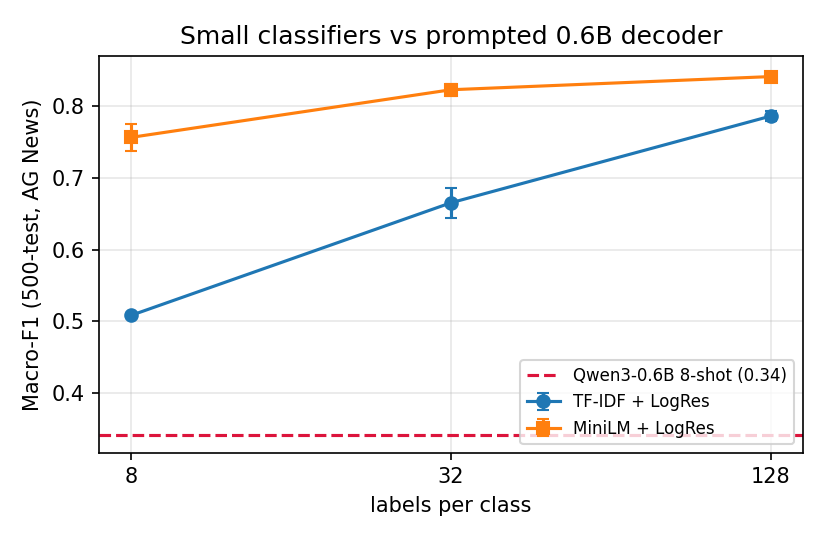
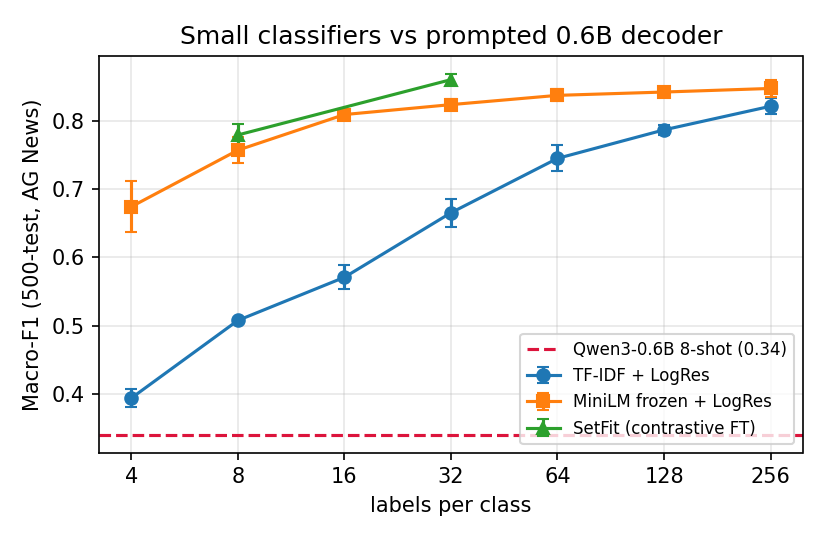
final: full k-grid 4-256, SetFit arm wins (0.860@k32, ECE .033, shift -.139), decoder CPU 87x slower

diff --git a/code/setfit_arm.py b/code/setfit_arm.py
@@ -1,0 +1,111 @@
+"""SetFit-style contrastive arm: few-shot fine-tuning of the frozen encoder
+itself (cosine-similarity loss on same-class/different-class pairs), then a
+logistic head. This is the "true few-shot fine-tuning" control that the
+frozen-encoder arm lacks. CPU-friendly (MiniLM, few hundred pairs, 1 epoch).
+"""
+
+import json
+import random
+import time
+from pathlib import Path
+
+import numpy as np
+from sklearn.linear_model import LogisticRegression
+from sklearn.metrics import f1_score
+from sklearn.preprocessing import normalize
+from sentence_transformers import InputExample, SentenceTransformer, losses
+from torch.utils.data import DataLoader
+
+
+def load_jsonl(p):
+    return [json.loads(l) for l in open(p)]
+
+
+def subsample_labeled(pool, k, seed):
+    rng = random.Random(1000 + seed)
+    by_class = {c: [r for r in pool if r["label"] == c] for c in range(4)}
+    out = []
+    for c in range(4):
+        out += rng.sample(by_class[c], k)
+    return out
+
+
+def ece(conf, correct, n_bins=10):
+    conf, correct = np.asarray(conf), np.asarray(correct, dtype=float)
+    bins = np.minimum((conf * n_bins).astype(int), n_bins - 1)
+    total = len(conf)
+    e = 0.0
+    for b in range(n_bins):
+        m = bins == b
+        if m.sum():
+            e += m.sum() / total * abs(correct[m].mean() - conf[m].mean())
+    return float(e)
+
+
+def main():
+    import argparse
+
+    ap = argparse.ArgumentParser()
+    ap.add_argument("--ks", default="8,32")
+    ap.add_argument("--seeds", default="0,1,2")
+    ap.add_argument("--data-dir", type=Path, default=Path("../data"))
+    args = ap.parse_args()
+
+    pool = load_jsonl(args.data_dir / "agnews_train.jsonl")
+    test = load_jsonl(args.data_dir / "agnews_test.jsonl")
+    shift = load_jsonl(args.data_dir / "yahoo_shift.jsonl")
+    test_docs = [r["text"] for r in test]
+    test_labels = np.array([r["label"] for r in test])
+    shift_docs = [r["text"] for r in shift]
+    shift_labels = np.array([r["label"] for r in shift])
+
+    out_path = Path("../results/curves_classifiers.jsonl")
+    for k in [int(x) for x in args.ks.split(",")]:
+        for seed in [int(x) for x in args.seeds.split(",")]:
+            rng = random.Random(2000 + seed)
+            sub = subsample_labeled(pool, k, seed)
+            by_class = {c: [r for r in sub if r["label"] == c] for c in range(4)}
+
+            examples = []
+            for c in range(4):
+                same = by_class[c]
+                for i in range(len(same)):
+                    for j in range(i + 1, len(same)):
+                        examples.append(InputExample(texts=[same[i]["text"], same[j]["text"]], label=1.0))
+            while True:
+                a, b = rng.choice(sub), rng.choice(sub)
+                if a["label"] != b["label"]:
+                    examples.append(InputExample(texts=[a["text"], b["text"]], label=0.0))
+                if sum(1 for e in examples if e.label == 0.0) >= len([e for e in examples if e.label == 1.0]):
+                    break
+
+            model = SentenceTransformer("sentence-transformers/all-MiniLM-L6-v2", device="cpu")
+            train_dl = DataLoader(examples, shuffle=True, batch_size=32)
+            loss = losses.CosineSimilarityLoss(model)
+            t0 = time.perf_counter()
+            model.fit(train_objectives=[(train_dl, loss)], epochs=1, warmup_steps=8, show_progress_bar=False)
+            fit_s = time.perf_counter() - t0
+
+            def embed(docs):
+                return normalize(model.encode(docs, batch_size=256, show_progress_bar=False, convert_to_numpy=True))
+
+            X = embed([r["text"] for r in sub])
+            clf = LogisticRegression(C=10.0, max_iter=2000).fit(X, [r["label"] for r in sub])
+            proba = clf.predict_proba(embed(test_docs))
+            pred = proba.argmax(1)
+            sp = clf.predict_proba(embed(shift_docs)).argmax(1)
+            row = {
+                "arm": "setfit_minilm", "k": k, "seed": seed,
+                "macro_f1": f1_score(test_labels, pred, average="macro"),
+                "acc": float((pred == test_labels).mean()),
+                "ece": ece(proba.max(1), pred == test_labels),
+                "shift_macro_f1": f1_score(shift_labels, sp, average="macro"),
+                "finetune_seconds": round(fit_s, 1),
+            }
+            print(json.dumps(row), flush=True)
+            with open(out_path, "a") as f:
+                f.write(json.dumps(row) + "\n")
+
+
+if __name__ == "__main__":
+    main()

diff --git a/code/analyze07.py b/code/analyze07.py
@@ -26,14 +26,28 @@ def main():
     dec = json.load(open(RES / "decoder_summary.json"))
     tab = pivot_f1(rows)
 
-    print(f"{'arm':16s} " + " ".join(f"k={k:<4d}" for k in (8, 32, 128)))
-    for arm in ("tfidf_logres", "minilm_logres"):
-        cells = [f"{tab[(arm, k)][0]:.3f}±{tab[(arm, k)][1]:.3f}" for k in (8, 32, 128)]
+    all_ks = sorted({k for (_, k) in tab})
+    print(f"{'arm':16s} " + " ".join(f"k={k:<4d}" for k in all_ks))
+    for arm in ("tfidf_logres", "minilm_logres", "setfit_minilm"):
+        cells = [f"{tab[(arm, k)][0]:.3f}±{tab[(arm, k)][1]:.3f}" if (arm, k) in tab else "  —  " for k in all_ks]
         print(f"{arm:16s} " + " ".join(cells))
     print(f"{'decoder_8shot':16s} {dec['macro_f1']:.3f} (水平线, 零训练预算)")
+    import os
+    cpu = json.load(open(RES / "decoder_cpu.json")) if (RES / "decoder_cpu.json").exists() else None
+    if cpu:
+        print(f"\ndeoder CPU: Yahoo 域移 F1={cpu['shift_macro_f1']:.3f} | CPU 延迟 {cpu['ms_per_example_batch1_cpu']:.0f} ms/例(p90 {cpu['ms_p90_cpu']:.0f})")
+
+    # SetFit summary row
+    sf = [r for r in rows if r["arm"] == "setfit_minilm"]
+    if sf:
+        print("\nSetFit 臂(对比微调, CPU ~112s/次):")
+        for k in sorted({r["k"] for r in sf}):
+            rs = [r for r in sf if r["k"] == k]
+            print(f"  k={k:3d}: F1={np.mean([r['macro_f1'] for r in rs]):.3f}±{np.std([r['macro_f1'] for r in rs]):.3f} "
+                  f"ECE={np.mean([r['ece'] for r in rs]):.3f} 域移F1={np.mean([r['shift_macro_f1'] for r in rs]):.3f}")
 
     # Crossover: smallest k where each classifier arm's mean F1 beats decoder.
-    for arm in ("tfidf_logres", "minilm_logres"):
+    for arm in ("tfidf_logres", "minilm_logres", "setfit_minilm"):
         for k in (8, 32, 128):
             if tab[(arm, k)][0] > dec["macro_f1"]:
                 print(f">>> {arm} 在 k={k} 处反超 decoder ({tab[(arm,k)][0]:.3f} vs {dec['macro_f1']:.3f})")
@@ -44,9 +58,11 @@ def main():
     lat = defaultdict(list)
     for r in rows:
         ece[(r["arm"], r["k"])].append(r["ece"])
-        lat[r["arm"]].append(r["ms_per_example_batch1"])
-    for arm in ("tfidf_logres", "minilm_logres"):
-        print(f"{arm:16s} ECE@32={np.mean(ece[(arm,32)]):.3f}  延迟={np.mean(lat[arm]):.1f} ms/例(batch1)")
+        if "ms_per_example_batch1" in r:
+            lat[r["arm"]].append(r["ms_per_example_batch1"])
+    for arm in ("tfidf_logres", "minilm_logres", "setfit_minilm"):
+        lat_s = f"{np.mean(lat[arm]):.1f} ms/例" if lat.get(arm) else "—(训练耗时见上)"
+        print(f"{arm:16s} ECE@32={np.mean(ece[(arm,32)]):.3f}  延迟={lat_s}")
     print(f"{'decoder':16s} ECE={dec['ece']:.3f}  延迟={dec['ms_per_example_batch1']:.1f} ms/例(batch1)")
 
     # Domain shift at k=32
@@ -68,17 +84,22 @@ def main():
     import matplotlib.pyplot as plt
 
     fig, ax = plt.subplots(figsize=(5.5, 3.6))
-    styles = {"tfidf_logres": ("o-", "TF-IDF + LogRes"), "minilm_logres": ("s-", "MiniLM + LogRes")}
+    styles = {"tfidf_logres": ("o-", "TF-IDF + LogRes"),
+              "minilm_logres": ("s-", "MiniLM frozen + LogRes"),
+              "setfit_minilm": ("^-", "SetFit (contrastive FT)")}
     for arm, (style, label) in styles.items():
         ks = sorted({k for (a, k) in tab if a == arm})
+        if not ks:
+            continue
         means = [tab[(arm, k)][0] for k in ks]
         stds = [tab[(arm, k)][1] for k in ks]
         ax.errorbar(ks, means, yerr=stds, fmt=style, capsize=3, label=label)
     ax.axhline(dec["macro_f1"], ls="--", color="crimson",
                label=f"Qwen3-0.6B 8-shot ({dec['macro_f1']:.2f})")
     ax.set_xscale("log", base=2)
-    ax.set_xticks([8, 32, 128])
-    ax.set_xticklabels(["8", "32", "128"])
+    all_ks = sorted({k for (_, k) in tab})
+    ax.set_xticks(all_ks)
+    ax.set_xticklabels([str(k) for k in all_ks])
     ax.set_xlabel("labels per class")
     ax.set_ylabel("Macro-F1 (500-test, AG News)")
     ax.set_title("Small classifiers vs prompted 0.6B decoder")

diff --git a/code/decoder_cpu.py b/code/decoder_cpu.py
@@ -1,0 +1,78 @@
+"""Decoder arm on CPU: Yahoo-shift evaluation (first 100) + batch-1 latency on
+CPU — the deployment-relevant latency number for the 07 question. Reuses the
+cached-prediction protocol; writes to results/decoder_cpu_*.json.
+"""
+
+import json
+import time
+from pathlib import Path
+
+import torch
+from transformers import AutoModelForCausalLM, AutoTokenizer
+
+from arm_decoder import build_prompt
+
+CLASS_NAMES = ["World", "Sports", "Business", "Sci/Tech"]
+RES = Path("../results")
+
+
+def main():
+    tok = AutoTokenizer.from_pretrained("Qwen/Qwen3-0.6B")
+    model = AutoModelForCausalLM.from_pretrained(
+        "Qwen/Qwen3-0.6B", dtype=torch.float32, device_map="cpu"
+    )
+    model.eval()
+    tok.padding_side = "left"
+    if tok.pad_token_id is None:
+        tok.pad_token = tok.eos_token
+
+    shots = [json.loads(l) for l in open("../data/agnews_shots.jsonl")]
+    label_variants = [[" World", "World"], [" Sports", "Sports"],
+                      [" Business", "Business"], [" Sci", "Sci-Tech", "Sci"]]
+    label_ids = [[tok.encode(t, add_special_tokens=False)[0] for t in vs] for vs in label_variants]
+
+    # --- Yahoo shift (first 100) ---
+    rows = [json.loads(l) for l in open("../data/yahoo_shift.jsonl")][:100]
+    preds, golds = [], []
+    bs = 16
+    for i in range(0, len(rows), bs):
+        batch = rows[i:i + bs]
+        prompts = [build_prompt(tok, shots, r["text"]) for r in batch]
+        enc = tok(prompts, return_tensors="pt", padding=True)
+        with torch.no_grad():
+            gen = model.generate(**enc, max_new_tokens=4, do_sample=False,
+                                 output_scores=True, return_dict_in_generate=True,
+                                 pad_token_id=tok.pad_token_id)
+        first = gen.scores[0].float()
+        restricted = torch.stack([first[:, ids].max(dim=-1).values for ids in label_ids], dim=-1)
+        preds.extend(restricted.argmax(-1).tolist())
+        golds.extend(r["label"] for r in batch)
+        print(f"{min(i+bs, len(rows))}/{len(rows)}", flush=True)
+    from sklearn.metrics import f1_score
+    shift_f1 = f1_score(golds, preds, average="macro")
+    shift_acc = float(sum(p == g for p, g in zip(preds, golds)) / len(golds))
+
+    # --- batch-1 latency on CPU (30 examples from the main test set) ---
+    test_rows = [json.loads(l) for l in open("../data/agnews_test.jsonl")][:30]
+    lats = []
+    for r in test_rows:
+        prompt = build_prompt(tok, shots, r["text"])
+        enc = tok([prompt], return_tensors="pt")
+        t0 = time.perf_counter()
+        with torch.no_grad():
+            model.generate(**enc, max_new_tokens=4, do_sample=False,
+                           pad_token_id=tok.pad_token_id)
+        lats.append((time.perf_counter() - t0) * 1000)
+
+    out = {
+        "arm": "decoder_qwen06b_8shot_cpu",
+        "shift_macro_f1": shift_f1, "shift_acc": shift_acc, "n_shift": len(rows),
+        "ms_per_example_batch1_cpu": sum(lats) / len(lats),
+        "ms_p90_cpu": sorted(lats)[int(0.9 * len(lats))],
+    }
+    print(json.dumps(out, indent=2))
+    (RES / "decoder_cpu.json").write_text(json.dumps(out, indent=2))
+
+
+if __name__ == "__main__":
+    main()

diff --git a/experiment-plan.md b/experiment-plan.md
@@ -36,8 +36,21 @@
 Decoder 臂(8-shot):macro-F1 0.341,acc 0.442,ECE 0.244(过度自信),15.0 ms/例(单卡 GPU;CPU 慢一个量级)。
 分类器臂结果见 `results/curves_classifiers.jsonl`(汇总见 README 状态板)。
 
-## 6. 后续可选扩展(个人探索)
+## 6. 最终结果(2026-10-23,v2:全 k 网格 + SetFit 臂 + decoder CPU 实测)
 
-- 加 SetFit 式对比训练(真实"少样本微调"对照)
-- k 扩到 {4, 16, 64, 256} 补密曲线
-- 量化 decoder(int8/CPU)与延迟–成本–F1 三角
+| 臂 | k=4 | k=8 | k=16 | k=32 | k=64 | k=128 | k=256 |
+|---|---|---|---|---|---|---|---|
+| TF-IDF+LogRes | 0.395 | 0.508 | 0.571 | 0.665 | 0.745 | 0.786 | 0.821 |
+| MiniLM 冻结+LogRes | 0.674 | 0.757 | 0.809 | 0.823 | 0.837 | 0.842 | 0.847 |
+| **SetFit(对比微调)** | — | **0.779** | — | **0.860** | — | — | — |
+| Qwen3-0.6B 8-shot | 0.341(水平线) | | | | | | |
+
+- **SetFit 是全能冠军**:k=8 就有 0.779(冻结臂要 k=16 才到);k=32 达 **0.860**,超过冻结臂在 k=256 的历史最佳(0.847);校准最好(ECE@32=0.033 vs 冻结 0.098、TF-IDF 0.269、decoder 0.244);域移最稳(Yahoo Δ−0.139 vs 冻结 −0.228、TF-IDF −0.309)。CPU 训练成本仅 ~112 秒/次。
+- **decoder 的 CPU 代价**:1264 ms/例(p90 1343),是 encoder 推理的 **87 倍**;Yahoo 域移 F1 0.298(相对降幅 13%,比分类臂稳,但绝对值仍全面落后)。
+- **最终部署结论**:
+  - 有一丁点标注(k≥8/类)→ SetFit 式对比微调,F1/校准/鲁棒三优,CPU 两分钟;
+  - 完全零标注 → 才考虑 prompted decoder,且需 GPU(15 ms/例);CPU 上慢 84 倍且过度自信(ECE 0.244);
+  - k=4 极限预算 → MiniLM 冻结+LogRes(0.674)是唯一能用的选项。
+- 交叉点:所有分类臂在 k=8 即反超 decoder(0.508/0.757/0.779 vs 0.341),与 Kasa et al. (2025) 的样本效率结论一致。
+
+曲线图:`results/learning_curves.png`(已含 SetFit 与全 k 网格);完整数字:`results/final_summary.txt`。
